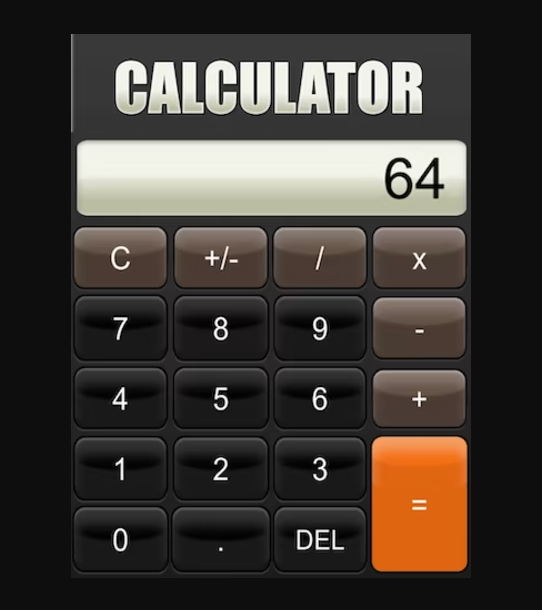
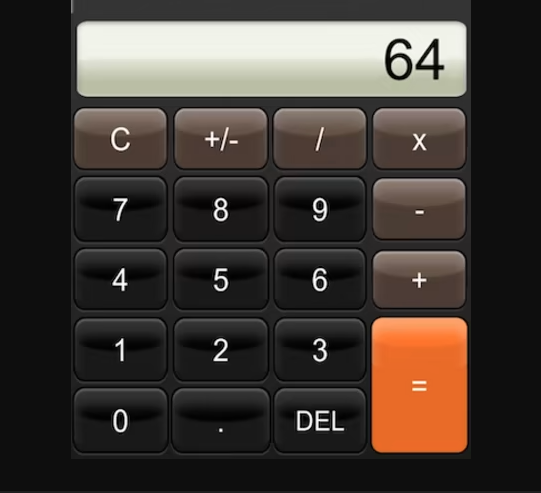
numbers jv

diff --git a/app.js b/app.js
@@ -1,1 +1,98 @@
 console.log("script linked");
+
+// *****VARIABLES*****
+// *****VARIABLES*****
+// *****VARIABLES*****
+const one = document.querySelector(".one");
+const screen = document.getElementById("screen");
+const clear = document.querySelector(".c");
+const two = document.getElementsByClassName('two');
+const three = document.querySelector(".three");
+const four = document.querySelector(".four");
+const five = document.querySelector(".five");
+const six = document.querySelector(".six");
+const seven = document.querySelector(".seven");
+const eight = document.querySelector(".eight");
+const nine = document.querySelector(".nine");
+const deleteButton = document.querySelector(".delete");
+
+
+
+
+
+// *****NUMBERS*****
+// *****NUMBERS*****
+// *****NUMBERS*****
+one.addEventListener( "click", () => {
+    screen.value += 1;
+})
+
+clear.addEventListener("click", () => {
+    screen.value = "";
+})
+
+two[0].addEventListener("click", () => {
+    screen.value += 2;
+})
+
+three.addEventListener("click", () => {
+    screen.value += 3;
+})
+
+four.addEventListener( "click", () => {
+    screen.value += 4;
+})
+
+five.addEventListener( "click", () => {
+    screen.value += 5;
+})
+
+six.addEventListener( "click", () => {
+    screen.value += 6;
+})
+
+seven.addEventListener( "click", () => {
+    screen.value += 7;
+})
+
+eight.addEventListener( "click", () => {
+    screen.value += 8;
+})
+
+nine.addEventListener( "click", () => {
+    screen.value += 9;
+})
+
+
+
+
+
+
+clear.addEventListener("click", () => {
+    screen.value = "";
+})
+
+
+
+
+
+
+deleteButton.addEventListener( "click", () => {
+     let display = screen.value;
+     let displayString = display.toString();
+     let cutoff = displayString.slice(0,-1);   
+     screen.value = cutoff;
+ })
+
+
+
+
+
+
+
+
+
+
+
+
+

diff --git a/style.css b/style.css
@@ -17,21 +17,43 @@ main {
     display: grid;
     grid-template-columns: 1fr 1fr 1fr 1fr;
     grid-template-rows: 1fr 1fr 1fr 1fr 1fr 1fr;
-    background-color: whitesmoke;
-}
-
-button {
-   
+    background-image: linear-gradient(rgb(99, 99, 99), rgb(36, 36, 36));
 }
 
 #screen {
     grid-column-start: 1;
     grid-column-end: 5;
+    font-size: 3rem;
+    text-align: right;
+    letter-spacing: 1px;
+}
 
+button, input {
+    border-radius: 10px;
+    border: none;
+    margin: .25rem;
+}
+
+.buttons {
+    color: white;
+    font-size: 2rem;
+    background-image: linear-gradient(rgb(56, 56, 56), black);
+    border: 1px solid black;
+}
+
+button:hover {
+    cursor: pointer;
+    border: gray 2px solid;
+}
+
+.c, .positive-negative, .division, .multiply, .minus, .plus {
+    background-image: linear-gradient(sandybrown, saddlebrown);
 }
 
 .equals {
     grid-row-start: 5;
     grid-row-end: 7;
     grid-column-start: 4;
+    background-image: linear-gradient(rgb(247, 175, 43), darkorange);
 }
+
